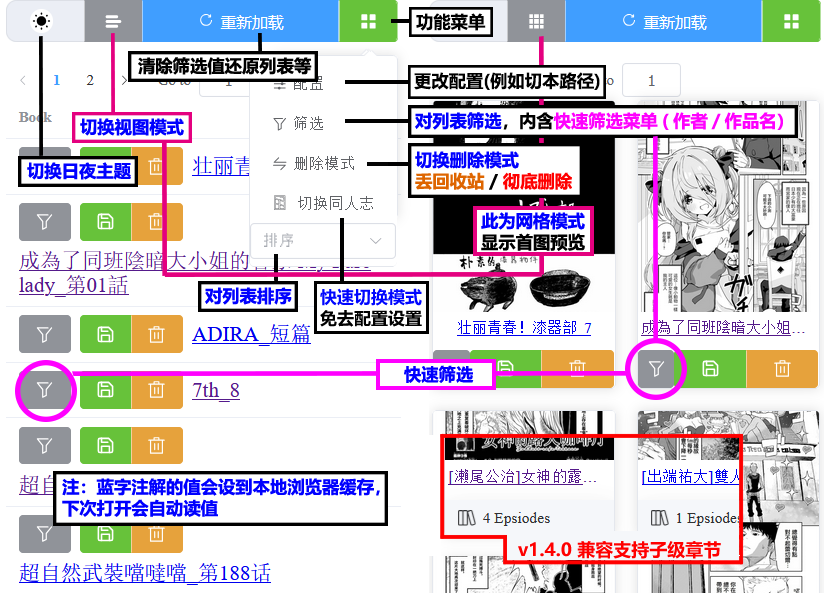
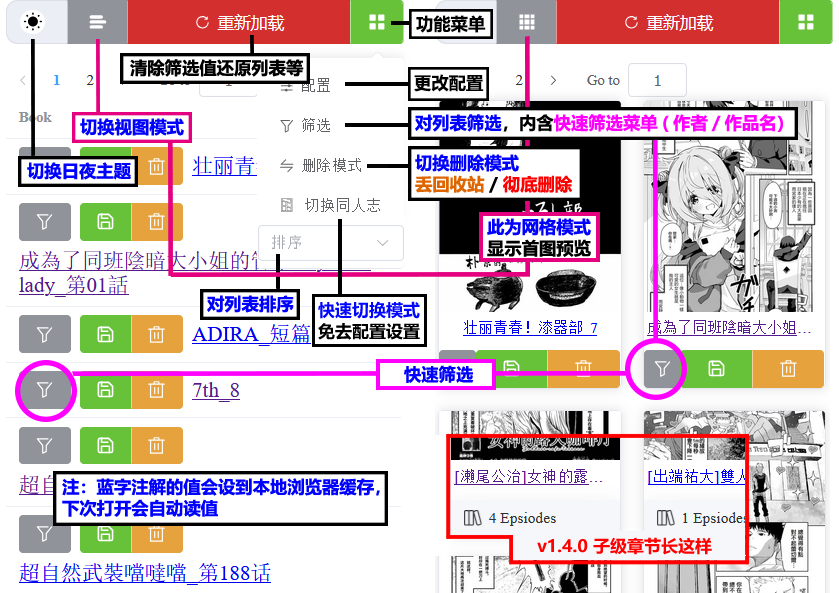
build: v1.4.0 Ⅲ: theme-color red

diff --git a/frontend/src/style.css b/frontend/src/style.css
@@ -1,89 +1,19 @@
 :root {
-  font-family: Inter, system-ui, Avenir, Helvetica, Arial, sans-serif;
-  line-height: 1.5;
-  font-weight: 400;
-
-  color-scheme: light dark;
-  color: rgba(255, 255, 255, 0.87);
-  background-color: #242424;
-
-  font-synthesis: none;
-  text-rendering: optimizeLegibility;
-  -webkit-font-smoothing: antialiased;
-  -moz-osx-font-smoothing: grayscale;
-  -webkit-text-size-adjust: 100%;
+  --el-color-primary: #D32F2F;
+  --el-color-primary-light-3: #E06D6D;
+  --el-color-primary-light-5: #E99797;
+  --el-color-primary-light-7: #F2C1C1;
+  --el-color-primary-light-8: #F6D6D6;
+  --el-color-primary-light-9: #FAEBEB;
+  --el-color-primary-dark-2: #A92626;
 }
 
-a {
-  font-weight: 500;
-  color: #646cff;
-  text-decoration: inherit;
-}
-a:hover {
-  color: #535bf2;
-}
-
-a {
-  font-weight: 500;
-  color: #646cff;
-  text-decoration: inherit;
-}
-a:hover {
-  color: #535bf2;
-}
-
-body {
-  margin: 0;
-  display: flex;
-  place-items: center;
-  min-width: 320px;
-  min-height: 100vh;
-}
-
-h1 {
-  font-size: 3.2em;
-  line-height: 1.1;
-}
-
-button {
-  border-radius: 8px;
-  border: 1px solid transparent;
-  padding: 0.6em 1.2em;
-  font-size: 1em;
-  font-weight: 500;
-  font-family: inherit;
-  background-color: #1a1a1a;
-  cursor: pointer;
-  transition: border-color 0.25s;
-}
-button:hover {
-  border-color: #646cff;
-}
-button:focus,
-button:focus-visible {
-  outline: 4px auto -webkit-focus-ring-color;
-}
-
-.card {
-  padding: 2em;
-}
-
-#app {
-  max-width: 1280px;
-  margin: 0 auto;
-  padding: 2rem;
-  text-align: center;
-}
-
-@media (prefers-color-scheme: light) {
-  :root {
-    color: #213547;
-    background-color: #ffffff;
-  }
-  a:hover {
-    color: #747bff;
-  }
-  button {
-    background-color: #f9f9f9;
-  }
+html.dark {
+  --el-color-primary: #D32F2F;
+  --el-color-primary-light-3: #A92626;
+  --el-color-primary-light-5: #7F1D1D;
+  --el-color-primary-light-7: #561414;
+  --el-color-primary-light-8: #3D0E0E;
+  --el-color-primary-light-9: #f5212120;
+  --el-color-primary-dark-2: #E06D6D;
 }

diff --git a/frontend/src/components/TopBtnGroupOfEp.vue b/frontend/src/components/TopBtnGroupOfEp.vue
@@ -4,17 +4,17 @@
       <el-icon size="large"><BackIcon /></el-icon>
     </el-button>
     <el-button :type="isCompleteDel ? 'danger' : 'warning'" @click="switchDelMode" style="flex: 1; height: 100%;">
-      <el-icon><Switch /></el-icon>
+      <el-icon size="large"><Switch /></el-icon>
       <span class="btn-text">模式:{{ isCompleteDel ? '彻底删除' : '扔回收站' }}</span>
     </el-button>
     <el-button type="primary" style="flex: 1; height: 100%;" @click="props.previousSeries">
-      <el-icon><ArrowLeft /></el-icon>
+      <el-icon size="large"><ArrowLeft /></el-icon>
       <span class="btn-text">上一系列</span>
     </el-button>
     <el-button disabled class="book-name-btn" style="flex: 6; height: 100%;">{{ props.bookName }}</el-button>
     <el-button type="primary" style="flex: 1; height: 100%;" @click="props.nextSeries">
       <span class="btn-text">下一系列</span>
-      <el-icon><ArrowRight /></el-icon>
+      <el-icon size="large"><ArrowRight /></el-icon>
     </el-button>
   </el-button-group>
 </template>

diff --git a/frontend/src/components/TopBtnGroupOfBook.vue b/frontend/src/components/TopBtnGroupOfBook.vue
@@ -4,8 +4,8 @@
     <el-button style="flex: 1; height: 100%" type="info" @click="goBack">
       <el-icon size="large"><BackIcon /></el-icon>
     </el-button>
-    <el-button style="flex: 4; height: 100%" type="primary" :icon="ArrowLeft" @click="previousBook">上一本</el-button>
-    <el-button style="flex: 4; height: 100%" type="primary" @click="nextBook">下一本<el-icon class="el-icon--right"><ArrowRight /></el-icon></el-button>
+    <el-button style="flex: 4; height: 100%" type="primary" @click="previousBook"><el-icon class="el-icon--left" size="large"><ArrowLeft /></el-icon>上一本</el-button>
+    <el-button style="flex: 4; height: 100%" type="primary" @click="nextBook">下一本<el-icon class="el-icon--right" size="large"><ArrowRight /></el-icon></el-button>
   <el-dropdown trigger="click" style="flex: 1; height: 100%;" placement="bottom-end" size="large">
     <el-button type="info"  @click="menuVisible = true" style="width: 100%; height: 100%;">
       <el-icon size="large"><Operation /></el-icon>

diff --git a/frontend/src/components/func/PageReader.vue b/frontend/src/components/func/PageReader.vue
@@ -179,7 +179,7 @@ watch(() => props.bookName, () => {
   justify-content: center;
   
   .el-image {
-    max-height: 100%;
+    height: 100%;
     max-width: 100%;
   }
 }
@@ -234,6 +234,6 @@ watch(() => props.bookName, () => {
 }
 
 :deep(.el-slider__bar) {
-  background-color: #409eff;
+  background-color: var(--el-color-primary);
 }
 </style>

diff --git a/frontend/src/main.js b/frontend/src/main.js
@@ -4,6 +4,7 @@ import { createApp } from 'vue'
 import ElementPlus from 'element-plus'
 import 'element-plus/dist/index.css'
 import 'element-plus/theme-chalk/dark/css-vars.css'
+import './style.css'
 import App from './App.vue'
 import { createPinia } from 'pinia'
 // 引入vue-router

diff --git a/backend/app.py b/backend/app.py
@@ -8,6 +8,6 @@ app = create_app()
 
 
 if __name__ == '__main__':
-    uvicorn.run(app='app:app', host="0.0.0.0", port=12345, log_level="debug",
+    uvicorn.run(app='app:app', host="0.0.0.0", port=12345, log_level="warning",
                 reload=True, reload_dirs=str(pathlib.Path(__file__).parent),
-                reload_includes=['conf.yml', '*.py'])
+                reload_includes='conf.yml', reload_excludes='*.py')

diff --git a/README.md b/README.md
@@ -10,7 +10,7 @@
   <br>
   <img src="https://img.shields.io/badge/-👉-red.svg" alt="tag">
   <img src="https://img.shields.io/github/stars/jasoneri/redViewer?style=social&logo=github" alt="tag">
-  <img src="https://img.shields.io/badge/-👈%20CGS过来的请涨它吧%20😹-red.svg" alt="tag">
+  <img src="https://img.shields.io/badge/-👈%20CGS过来的支持一下吧%20-red.svg" alt="tag">
 
   <p align="center">
   <a href="https://github.com/jasoneri/redViewer#1-部署更新运行多合一脚本">📦多功能脚本</a> | 
@@ -97,6 +97,7 @@ curl -fsSL https://gitee.com/json_eri/redViewer/raw/master/deploy/online_scripts
 ✅ 支持读 `.cbz`  
 ✨ CGS 下载后用 rV 设配置目录后完全无感使用，包括以上两点  
 ✨ 增加左右翻页阅读模式，同样采用 15~85% 阅读进度阈值，隐藏按钮组并设置全屏化  
+✨ 主题色改为 red !!  
 ✅ 配置/过滤等操作优化  
 
 ### ROAD MAP
